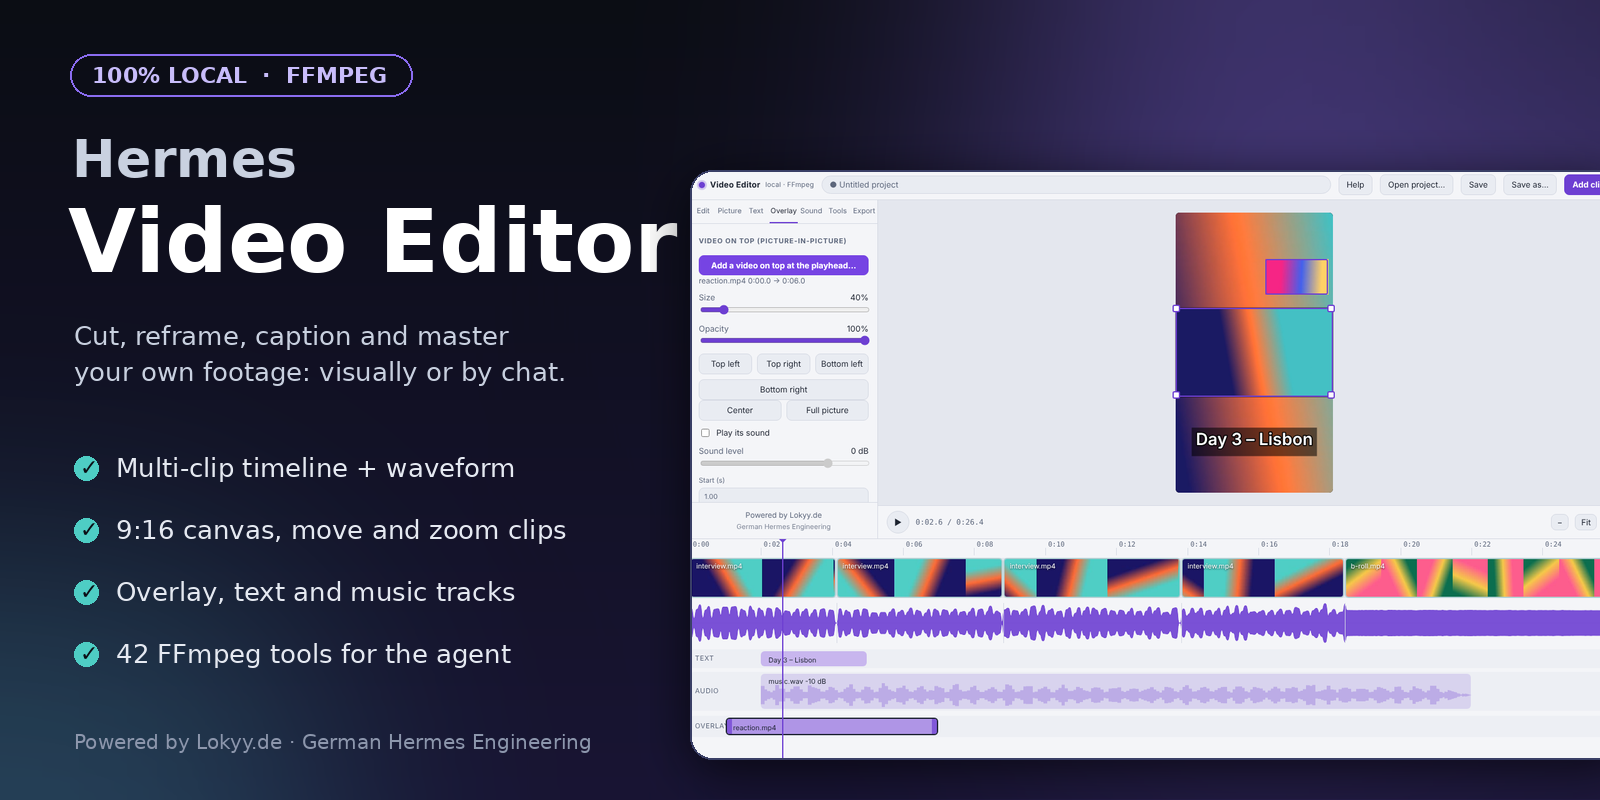
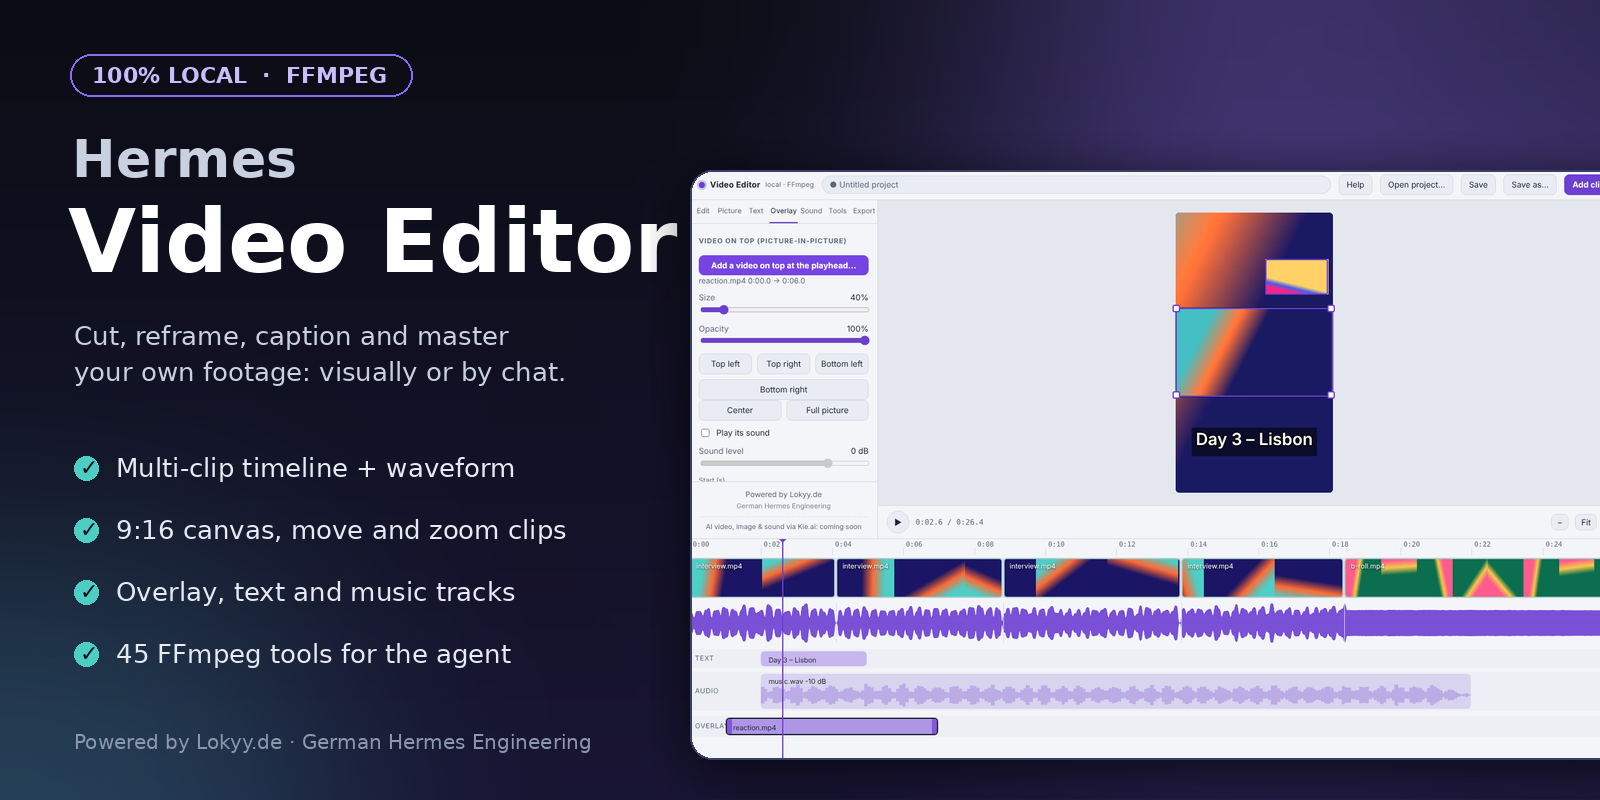
Add lk_loudness_report, lk_mute_video and lk_crossfade_join (45 tools)

Changed region(s): [[0.4062, 0.5938, 1.0, 0.8125], [0.7188, 0.25, 0.8438, 0.625]]

diff --git a/editor/web/index.html b/editor/web/index.html
@@ -158,7 +158,7 @@
     </section>
 
     <section data-pane="tools" class="pane">
-      <input id="tool-search" type="text" placeholder="Search the 42 tools&hellip;">
+      <input id="tool-search" type="text" placeholder="Search the 45 tools&hellip;">
       <div id="tool-list"></div>
       <div id="tool-form" hidden>
         <button id="tool-back" class="btn small">&larr; All tools</button>

diff --git a/tools/cut.py b/tools/cut.py
@@ -222,6 +222,68 @@ def join(args: Dict[str, Any]) -> Any:
     return job.done(op="join", method="stream_copy" if use_copy else "reencode", clips=len(paths))
 
 
+XFADES = ('fade', 'fadeblack', 'fadewhite', 'dissolve', 'wipeleft', 'wiperight', 'slideleft', 'slideright', 'circleopen', 'circleclose', 'pixelize')
+
+
+def crossfade_graph(infos: List[Dict[str, Any]], width: int, height: int, fps: float, transition: str, d: float) -> Tuple[str, bool, float]:
+    """Pure: filter_complex that joins the clips with an xfade of d seconds between each pair. Returns (graph, has_audio, total_s)."""
+    any_audio = any(i["has_audio"] for i in infos)
+    parts: List[str] = []
+    for n, i in enumerate(infos):
+        parts.append("[%d:v:0]scale=%d:%d:force_original_aspect_ratio=decrease,pad=%d:%d:(ow-iw)/2:(oh-ih)/2,"
+                     "setsar=1,fps=%s,format=yuv420p,settb=AVTB,setpts=PTS-STARTPTS[v%d]" % (n, width, height, width, height, fps, n))
+        if any_audio:
+            if i["has_audio"]:
+                parts.append("[%d:a:0]aresample=48000,aformat=channel_layouts=stereo,apad,atrim=duration=%.3f,asetpts=PTS-STARTPTS[a%d]"
+                             % (n, i["duration_s"], n))
+            else:
+                parts.append("anullsrc=r=48000:cl=stereo:d=%.3f[a%d]" % (i["duration_s"], n))
+    length = infos[0]["duration_s"]
+    vcur, acur = "v0", "a0"
+    for k in range(1, len(infos)):
+        last = k == len(infos) - 1
+        vout, aout = ("vo" if last else "vx%d" % k), ("ao" if last else "ax%d" % k)
+        parts.append("[%s][v%d]xfade=transition=%s:duration=%s:offset=%.3f[%s]" % (vcur, k, transition, round(d, 3), length - d, vout))
+        if any_audio:
+            parts.append("[%s][a%d]acrossfade=d=%s[%s]" % (acur, k, round(d, 3), aout))
+        vcur, acur = vout, aout
+        length += infos[k]["duration_s"] - d
+    return ";".join(parts), any_audio, length
+
+
+@tool_handler
+def crossfade_join(args: Dict[str, Any]) -> Any:
+    from ..core.ffmpeg import require_filter
+    raw = args.get("inputs")
+    if not isinstance(raw, list) or len(raw) < 2:
+        raise ToolError("'inputs' must be a list of at least 2 file paths, in play order.")
+    transition = get_choice(args, "transition", XFADES, "fade")
+    d = get_num(args, "duration_s", 1.0, lo=0.1, hi=5.0)
+    crf = crf_of(args)
+    require_filter("xfade", "transitions between clips")
+    paths = [resolve_input(p, "inputs[]") for p in raw]
+    infos = [probe(p) for p in paths]
+    if not all(i["has_video"] for i in infos):
+        raise ToolError("All inputs must contain a video stream.")
+    for n, i in enumerate(infos):
+        need = d if n in (0, len(infos) - 1) else 2 * d              # a clip in the middle has a transition at both ends
+        if not i["duration_s"] or i["duration_s"] <= need + 0.05:
+            raise ToolError("Clip %d is too short for a %s s transition (needs more than %s s)." % (n + 1, d, round(need, 2)),
+                            hint="Use a shorter duration_s or longer clips.")
+    job = Job(dict(args, input=str(paths[0])), "crossfade", ext="av", need_video=True)
+    v = infos[0]["video"]
+    width, height = v["display_width"] // 2 * 2, v["display_height"] // 2 * 2
+    graph, any_audio, total = crossfade_graph(infos, width, height, _norm_fps(v["fps"]), transition, d)
+    with new_tempdir() as tmp:
+        ff: List[str] = []
+        for p in paths:
+            ff += ["-i", str(p)]
+        ff += filter_complex_args(graph, Path(tmp)) + ["-map", "[vo]"] + (["-map", "[ao]"] if any_audio else [])
+        ff += encode_args(job.out.suffix.lower(), crf=crf, audio=any_audio)
+        job.run(ff)
+    return job.done(op="crossfade_join", transition=transition, transition_s=d, clips=len(paths), expected_duration_s=round(total, 3))
+
+
 def silence_cuts(ranges: List[List[float]], padding: float) -> List[Seg]:
     cuts = []
     for s, e in ranges:
@@ -433,4 +495,16 @@ SPECS = [
         properties={"count": {"type": "integer", "minimum": 2, "maximum": 200,
                               "description": "Total number of plays including the first."},
                     "target_duration_s": tprop("Final length to reach."), "crf": CRF_PROP}),
+    ToolSpec(
+        name="lk_crossfade_join",
+        description=("Join clips in the order given with a smooth transition between each pair (fade, dissolve, wipe, slide, "
+                     "circle, pixelize). Picture and sound cross-fade; the result is shorter than the sum of the clips by one "
+                     "transition each. Always re-encodes to the first clip's size and fps (letterboxed). Every clip must be "
+                     "longer than the transition (clips in the middle: twice as long). For hard cuts use lk_join."),
+        handler=crossfade_join, common=("output", "output_dir", "overwrite", "timeout_s"), required=["inputs"],
+        properties={"inputs": {"type": "array", "items": {"type": "string"}, "minItems": 2,
+                               "description": "Paths of the clips in play order (at least 2)."},
+                    "transition": {"type": "string", "enum": list(XFADES), "default": "fade", "description": "Transition style."},
+                    "duration_s": {"type": "number", "default": 1.0, "description": "Length of each transition in seconds (0.1 to 5)."},
+                    "crf": CRF_PROP}),
 ]

diff --git a/tests/test_group_g.py b/tests/test_group_g.py
@@ -1,0 +1,54 @@
+"""Tools added in 0.3: lk_loudness_report, lk_mute_video, lk_crossfade_join."""
+import subprocess
+
+import pytest
+
+from conftest import call, ffprobe, needs_ffmpeg, sha
+
+pytestmark = needs_ffmpeg
+
+
+def test_loudness_report_measures_without_writing(media, tmp_path):
+    before = sha(media["clip"])
+    r = call("lk_loudness_report", input=str(media["clip"]))
+    assert r["ok"] and r["output"] is None
+    i = r["info"]
+    assert -40 < i["integrated_lufs"] < -10 and i["verdict"] in ("ok", "too quiet", "too loud or peaking") and i["advice"]
+    assert sha(media["clip"]) == before
+    quiet = tmp_path / "quiet.wav"
+    subprocess.run(["ffmpeg", "-v", "error", "-y", "-f", "lavfi", "-i", "sine=frequency=440:duration=3", "-af", "volume=-30dB", str(quiet)], check=True)
+    assert call("lk_loudness_report", input=str(quiet))["info"]["verdict"] == "too quiet"
+    nosound = call("lk_loudness_report", input=str(media["silent"]))
+    assert nosound["ok"] is False and "no audio" in nosound["error"].lower()
+
+
+def test_mute_video_drops_audio_keeps_picture(media, tmp_path):
+    r = call("lk_mute_video", input=str(media["clip"]), output_dir=str(tmp_path))
+    assert r["ok"]
+    v = ffprobe(r["output"])
+    assert v["audio"] is None and v["video"]["width"] == 640
+    assert v["duration"] == pytest.approx(4, abs=0.2)
+    again = call("lk_mute_video", input=str(media["silent"]), output_dir=str(tmp_path))
+    assert again["ok"] and again["info"].get("unchanged") is True and again["output"] == str(media["silent"])
+    assert call("lk_mute_video", input="/no/such.mp4")["ok"] is False
+
+
+def test_crossfade_join_overlaps_clips(media, tmp_path):
+    r = call("lk_crossfade_join", inputs=[str(media["clip"]), str(media["other"])], duration_s=1.0, transition="dissolve", output_dir=str(tmp_path))
+    assert r["ok"], r
+    v = ffprobe(r["output"])
+    assert v["duration"] == pytest.approx(4 + 2 - 1, abs=0.35)           # one transition overlaps
+    assert (v["video"]["width"], v["video"]["height"]) == (640, 360) and v["audio"] is not None
+    assert r["info"]["expected_duration_s"] == pytest.approx(5, abs=0.01)
+    # the middle of the transition really blends: neither plain clip frame
+    mix = subprocess.run(["ffmpeg", "-v", "error", "-ss", "3.5", "-i", r["output"], "-frames:v", "1", "-f", "rawvideo", "-pix_fmt", "rgb24", "-"],
+                         capture_output=True, check=True).stdout
+    assert len(mix) == 640 * 360 * 3
+    # three clips (one without sound) and the guard rails
+    three = call("lk_crossfade_join", inputs=[str(media["clip"]), str(media["silent"]), str(media["other"])], duration_s=0.5, output_dir=str(tmp_path / "t"))
+    assert three["ok"], three
+    assert ffprobe(three["output"])["duration"] == pytest.approx(4 + 3 + 2 - 1.0, abs=0.4)
+    short = call("lk_crossfade_join", inputs=[str(media["clip"]), str(media["other"])], duration_s=2.5)
+    assert short["ok"] is False and "too short" in short["error"]
+    assert call("lk_crossfade_join", inputs=[str(media["clip"])])["ok"] is False
+    assert call("lk_crossfade_join", inputs=[str(media["clip"]), str(media["other"])], transition="nope")["ok"] is False

diff --git a/tools/info.py b/tools/info.py
@@ -136,6 +136,28 @@ def extract_frame(args: Dict[str, Any]) -> Any:
     return job.done(op="extract_frame", time=format_time(t))
 
 
+@tool_handler
+def loudness_report(args: Dict[str, Any]) -> Any:
+    """Measure only (EBU R128): nothing is written. Shows where the sound is relative to common platform targets."""
+    import math
+    from .audio import measure_loudness
+    path = resolve_input(args.get("input"))
+    info = probe(path)
+    if not info["has_audio"]:
+        raise ToolError("Input has no audio stream, so there is nothing to measure.")
+    m = measure_loudness(path, get_timeout(args))
+    lufs, tp, lra = m["input_i"], m["input_tp"], m["input_lra"]
+    if math.isinf(lufs) or math.isnan(lufs):
+        raise ToolError("The audio is silent or too quiet to measure loudness.")
+    verdict = "ok" if -16.0 <= lufs <= -12.0 and tp <= -1.0 else ("too quiet" if lufs < -16.0 else "too loud or peaking")
+    advice = {"ok": "Close to the common -14 LUFS target; no change needed.",
+              "too quiet": "Raise it with lk_normalize_loudness (target_lufs -14).",
+              "too loud or peaking": "Lower it with lk_normalize_loudness (target_lufs -14, true_peak_db -1.5)."}[verdict]
+    return {"output": None, "duration_s": info["duration_s"],
+            "info": {"integrated_lufs": round(lufs, 1), "true_peak_db": round(tp, 1), "loudness_range_lu": round(lra, 1),
+                     "verdict": verdict, "advice": advice, "reference": "YouTube/Reels/TikTok/Shorts about -14 LUFS, podcasts -16 LUFS"}}
+
+
 SPECS = [
     ToolSpec(
         name="lk_media_doctor",
@@ -174,4 +196,10 @@ SPECS = [
         properties={"time": tprop("Time of the frame. Default 0."),
                     "format": {"type": "string", "enum": ["png", "jpg"], "default": "png",
                                "description": "Image format. png = lossless, jpg = smaller."}}),
+    ToolSpec(
+        name="lk_loudness_report",
+        description=("Measure how loud a file is (integrated LUFS, true peak, loudness range, EBU R128) and say whether it fits "
+                     "social platforms (about -14 LUFS). Only measures: no file is written. If it is off, fix it with "
+                     "lk_normalize_loudness."),
+        handler=loudness_report, common=("input", "timeout_s")),
 ]

diff --git a/scripts/gen_docs.py b/scripts/gen_docs.py
@@ -6,7 +6,10 @@ from pathlib import Path
 
 ROOT = Path(__file__).resolve().parents[1]
 
-DE = {'lk_media_doctor': 'Prüft, ob FFmpeg/ffprobe installiert sind und welche Encoder/Filter vorhanden sind (libx264, aac, drawtext, loudnorm …).',
+DE = {
+'lk_loudness_report':'Misst, wie laut eine Datei ist (LUFS, Spitzenpegel, Lautheitsbereich) und sagt, ob sie zu Social-Media-Zielen passt. Schreibt keine Datei.',
+'lk_mute_video':'Entfernt den Ton aus einem Video; das Bild wird ohne Neu-Kodierung kopiert (sofort, verlustfrei).',
+'lk_crossfade_join':'Fügt Clips mit weichem Übergang zusammen (Überblendung, Wischen, Schieben, Kreis, Pixel); Bild und Ton werden überblendet.','lk_media_doctor': 'Prüft, ob FFmpeg/ffprobe installiert sind und welche Encoder/Filter vorhanden sind (libx264, aac, drawtext, loudnorm …).',
       'lk_media_probe': 'Liest Länge, Auflösung, FPS, Codecs, Audiospuren und Dateigröße einer Datei aus.',
       'lk_detect_silence': 'Findet stille Abschnitte (Start/Ende/Dauer) ohne die Datei zu ändern.',
       'lk_detect_scenes': 'Findet Szenenwechsel und gibt die Zeitpunkte zurück.',
@@ -49,10 +52,10 @@ DE = {'lk_media_doctor': 'Prüft, ob FFmpeg/ffprobe installiert sind und welche 
       'lk_contact_sheet': 'Erzeugt ein Übersichtsbild aus vielen Standbildern.',
       'lk_transcribe_captions': 'Erzeugt Untertitel (SRT) lokal mit faster-whisper. Optional: braucht ein bereits lokal vorhandenes Modell.'}
 
-DE_GROUPS = [("A. Prüfen", 5), ("B. Schneiden & Zeit", 8), ("C. Bild", 9), ("D. Overlays & Text", 6), ("E. Ton", 8), ("F. Export & Prüfung", 6)]
+DE_GROUPS = [("A. Prüfen", 6), ("B. Schneiden & Zeit", 9), ("C. Bild", 9), ("D. Overlays & Text", 6), ("E. Ton", 9), ("F. Export & Prüfung", 6)]
 
-GROUPS = [("A. Inspect", 5), ("B. Cut & time", 8), ("C. Picture", 9),
-          ("D. Overlays & text", 6), ("E. Audio", 8), ("F. Export & check", 6)]
+GROUPS = [("A. Inspect", 6), ("B. Cut & time", 9), ("C. Picture", 9),
+          ("D. Overlays & text", 6), ("E. Audio", 9), ("F. Export & check", 6)]
 
 
 def load():

diff --git a/tools/audio.py b/tools/audio.py
@@ -236,6 +236,15 @@ def denoise_audio(args: Dict[str, Any]) -> Any:
 
 
 # ------------------------------------------------------------------ specs
+@tool_handler
+def mute_video(args: Dict[str, Any]) -> Any:
+    job = Job(args, "muted", ext="av", need_video=True)
+    if not job.info["has_audio"]:
+        return {"output": str(job.src), "duration_s": job.info["duration_s"], "info": {"op": "mute_video", "unchanged": True}}
+    job.run(["-i", str(job.src), "-map", "0:v:0", "-c:v", "copy", "-an"] + _tail(job))
+    return job.done(op="mute_video")
+
+
 SPECS = [
     ToolSpec(
         name="lk_extract_audio",
@@ -303,4 +312,10 @@ SPECS = [
                      "rumble below 90 Hz and hiss above 9 kHz for speech. Strong settings can make voices sound watery."),
         handler=denoise_audio,
         properties={"preset": {"type": "string", "enum": list(DENOISE), "default": "medium", "description": "Denoise amount / profile."}}),
+    ToolSpec(
+        name="lk_mute_video",
+        description=("Remove the sound from a video (all audio tracks). The picture is copied without re-encoding, so it is "
+                     "instant and lossless. Returns the input unchanged if there is no audio. To put new sound under it use "
+                     "lk_replace_audio or lk_mix_music."),
+        handler=mute_video),
 ]

diff --git a/tests/test_register.py b/tests/test_register.py
@@ -1,4 +1,4 @@
-"""Fake-Hermes tests: register(ctx) registers 42 valid tools + 1 skill; installed copy loads under any module name."""
+"""Fake-Hermes tests: register(ctx) registers 45 valid tools + 1 skill; installed copy loads under any module name."""
 import importlib.util
 import json
 import subprocess
@@ -10,7 +10,7 @@ from conftest import ROOT
 
 import hermes_video_editor
 
-EXPECTED_TOOLS = 42
+EXPECTED_TOOLS = 45
 
 
 class FakeCtx:
@@ -69,9 +69,9 @@ def test_common_params_present():
         props = tool["schema"]["parameters"]["properties"]
         if name in ("lk_media_doctor",):
             assert "timeout_s" in props
-        elif name in ("lk_media_probe", "lk_detect_silence", "lk_detect_scenes", "lk_platform_check"):
+        elif name in ("lk_media_probe", "lk_detect_silence", "lk_detect_scenes", "lk_platform_check", "lk_loudness_report"):
             assert "input" in props and "timeout_s" in props
-        elif name == "lk_join":
+        elif name in ("lk_join", "lk_crossfade_join"):
             assert {"output", "output_dir", "overwrite", "timeout_s"} <= set(props)
         elif name == "lk_split":      # writes several files, so no single 'output'
             assert {"input", "output_dir", "overwrite", "timeout_s"} <= set(props)

diff --git a/tests/test_editor_server.py b/tests/test_editor_server.py
@@ -318,14 +318,14 @@ def test_config_has_videos_dir(srv):
 
 
 # ---------------------------------------------------------------- all tools through the editor API
-def test_tool_catalog_lists_all_42(srv):
+def test_tool_catalog_lists_all_tools(srv):
     r = req(srv, "/api/tools").json()
     names = [t["name"] for t in r["tools"]]
-    assert len(names) == 42 and len(set(names)) == 42
+    assert len(names) == 45 and len(set(names)) == 45
     assert r["groups"] == ["Inspect", "Cut & time", "Picture", "Overlays & text", "Audio", "Export & check"]
     assert {t["group"] for t in r["tools"]} == set(r["groups"])
     assert {t["name"] for t in r["tools"] if t["read_only"]} == {
-        "lk_media_doctor", "lk_media_probe", "lk_detect_silence", "lk_detect_scenes", "lk_platform_check"}
+        "lk_media_doctor", "lk_media_probe", "lk_detect_silence", "lk_detect_scenes", "lk_platform_check", "lk_loudness_report"}
     trim = next(t for t in r["tools"] if t["name"] == "lk_trim")
     assert "start" in trim["properties"] and "input" in trim["properties"]
 

diff --git a/editor/toolrun.py b/editor/toolrun.py
@@ -19,7 +19,7 @@ PATH_KEYS = {"input": "media", "input2": "media", "pip_input": "media", "audio":
              "image": "image", "captions": "captions", "font_file": "font", "model_path": "dir",
              "output": "outfile", "output_dir": "dir_create"}
 LIST_PATH_KEYS = {"inputs": "media"}
-READ_ONLY = {"lk_media_doctor", "lk_media_probe", "lk_detect_silence", "lk_detect_scenes", "lk_platform_check"}
+READ_ONLY = {"lk_loudness_report", "lk_media_doctor", "lk_media_probe", "lk_detect_silence", "lk_detect_scenes", "lk_platform_check"}
 GROUPS = [("info", "Inspect"), ("cut", "Cut & time"), ("picture", "Picture"), ("overlay", "Overlays & text"),
           ("audio", "Audio"), ("export", "Export & check")]
 KIND_EXTS = {"project": {".json"}, "media": MEDIA_EXTS, "image": IMAGE_EXTS | VIDEO_EXTS, "captions": CAPTION_EXTS, "font": FONT_EXTS,

diff --git a/scripts/make_banner.py b/scripts/make_banner.py
@@ -39,7 +39,7 @@ def main():
     d.text((68, 190), "Video Editor", font=font(BOLD, 88), fill="#ffffff")
     d.text((74, 320), "Cut, reframe, caption and master", font=font(REG, 26), fill="#c9d1e0")
     d.text((74, 356), "your own footage: visually or by chat.", font=font(REG, 26), fill="#c9d1e0")
-    chips = ["Multi-clip timeline + waveform", "9:16 canvas, move and zoom clips", "Overlay, text and music tracks", "42 FFmpeg tools for the agent"]
+    chips = ["Multi-clip timeline + waveform", "9:16 canvas, move and zoom clips", "Overlay, text and music tracks", "45 FFmpeg tools for the agent"]
     for i, text in enumerate(chips):
         y = 450 + i * 62
         d.ellipse([74, y + 6, 98, y + 30], fill=TEAL)

diff --git a/tests/test_editor_integration.py b/tests/test_editor_integration.py
@@ -416,9 +416,9 @@ def test_browser_tools_tab_lists_all_42_and_runs_one(media, tmp_path):
         wait_ready(page)
         page.click("#tabs button[data-tab=tools]")
         page.wait_for_selector(".tool-item")
-        assert page.locator(".tool-item").count() == 42
+        assert page.locator(".tool-item").count() == 45
         page.fill("#tool-search", "silence")
-        assert 2 <= page.locator(".tool-item").count() < 42
+        assert 2 <= page.locator(".tool-item").count() < 45
         assert page.locator('.tool-item[data-tool="lk_detect_silence"]').count() == 1
         assert page.locator('.tool-item[data-tool="lk_remove_silence"]').count() == 1
         page.fill("#tool-search", "")

diff --git a/scripts/make_catalog_entry.py b/scripts/make_catalog_entry.py
@@ -29,7 +29,7 @@ def main():
         "sha: %s" % sha,
         'version: "%s"' % VERSION,
         "description: >-",
-        "  Local video editor for your own footage: 42 FFmpeg tools for the agent (cut, silence removal, 9:16 reframe,",
+        "  Local video editor for your own footage: 45 FFmpeg tools for the agent (cut, silence removal, 9:16 reframe,",
         "  captions, music with ducking, loudness, platform export and checks) plus a visual editor in Hermes Desktop",
         "  with canvas, overlay, text and music tracks and an English/German help. 100% local, no API key.",
         "  Licence: PolyForm Noncommercial 1.0.0.",
